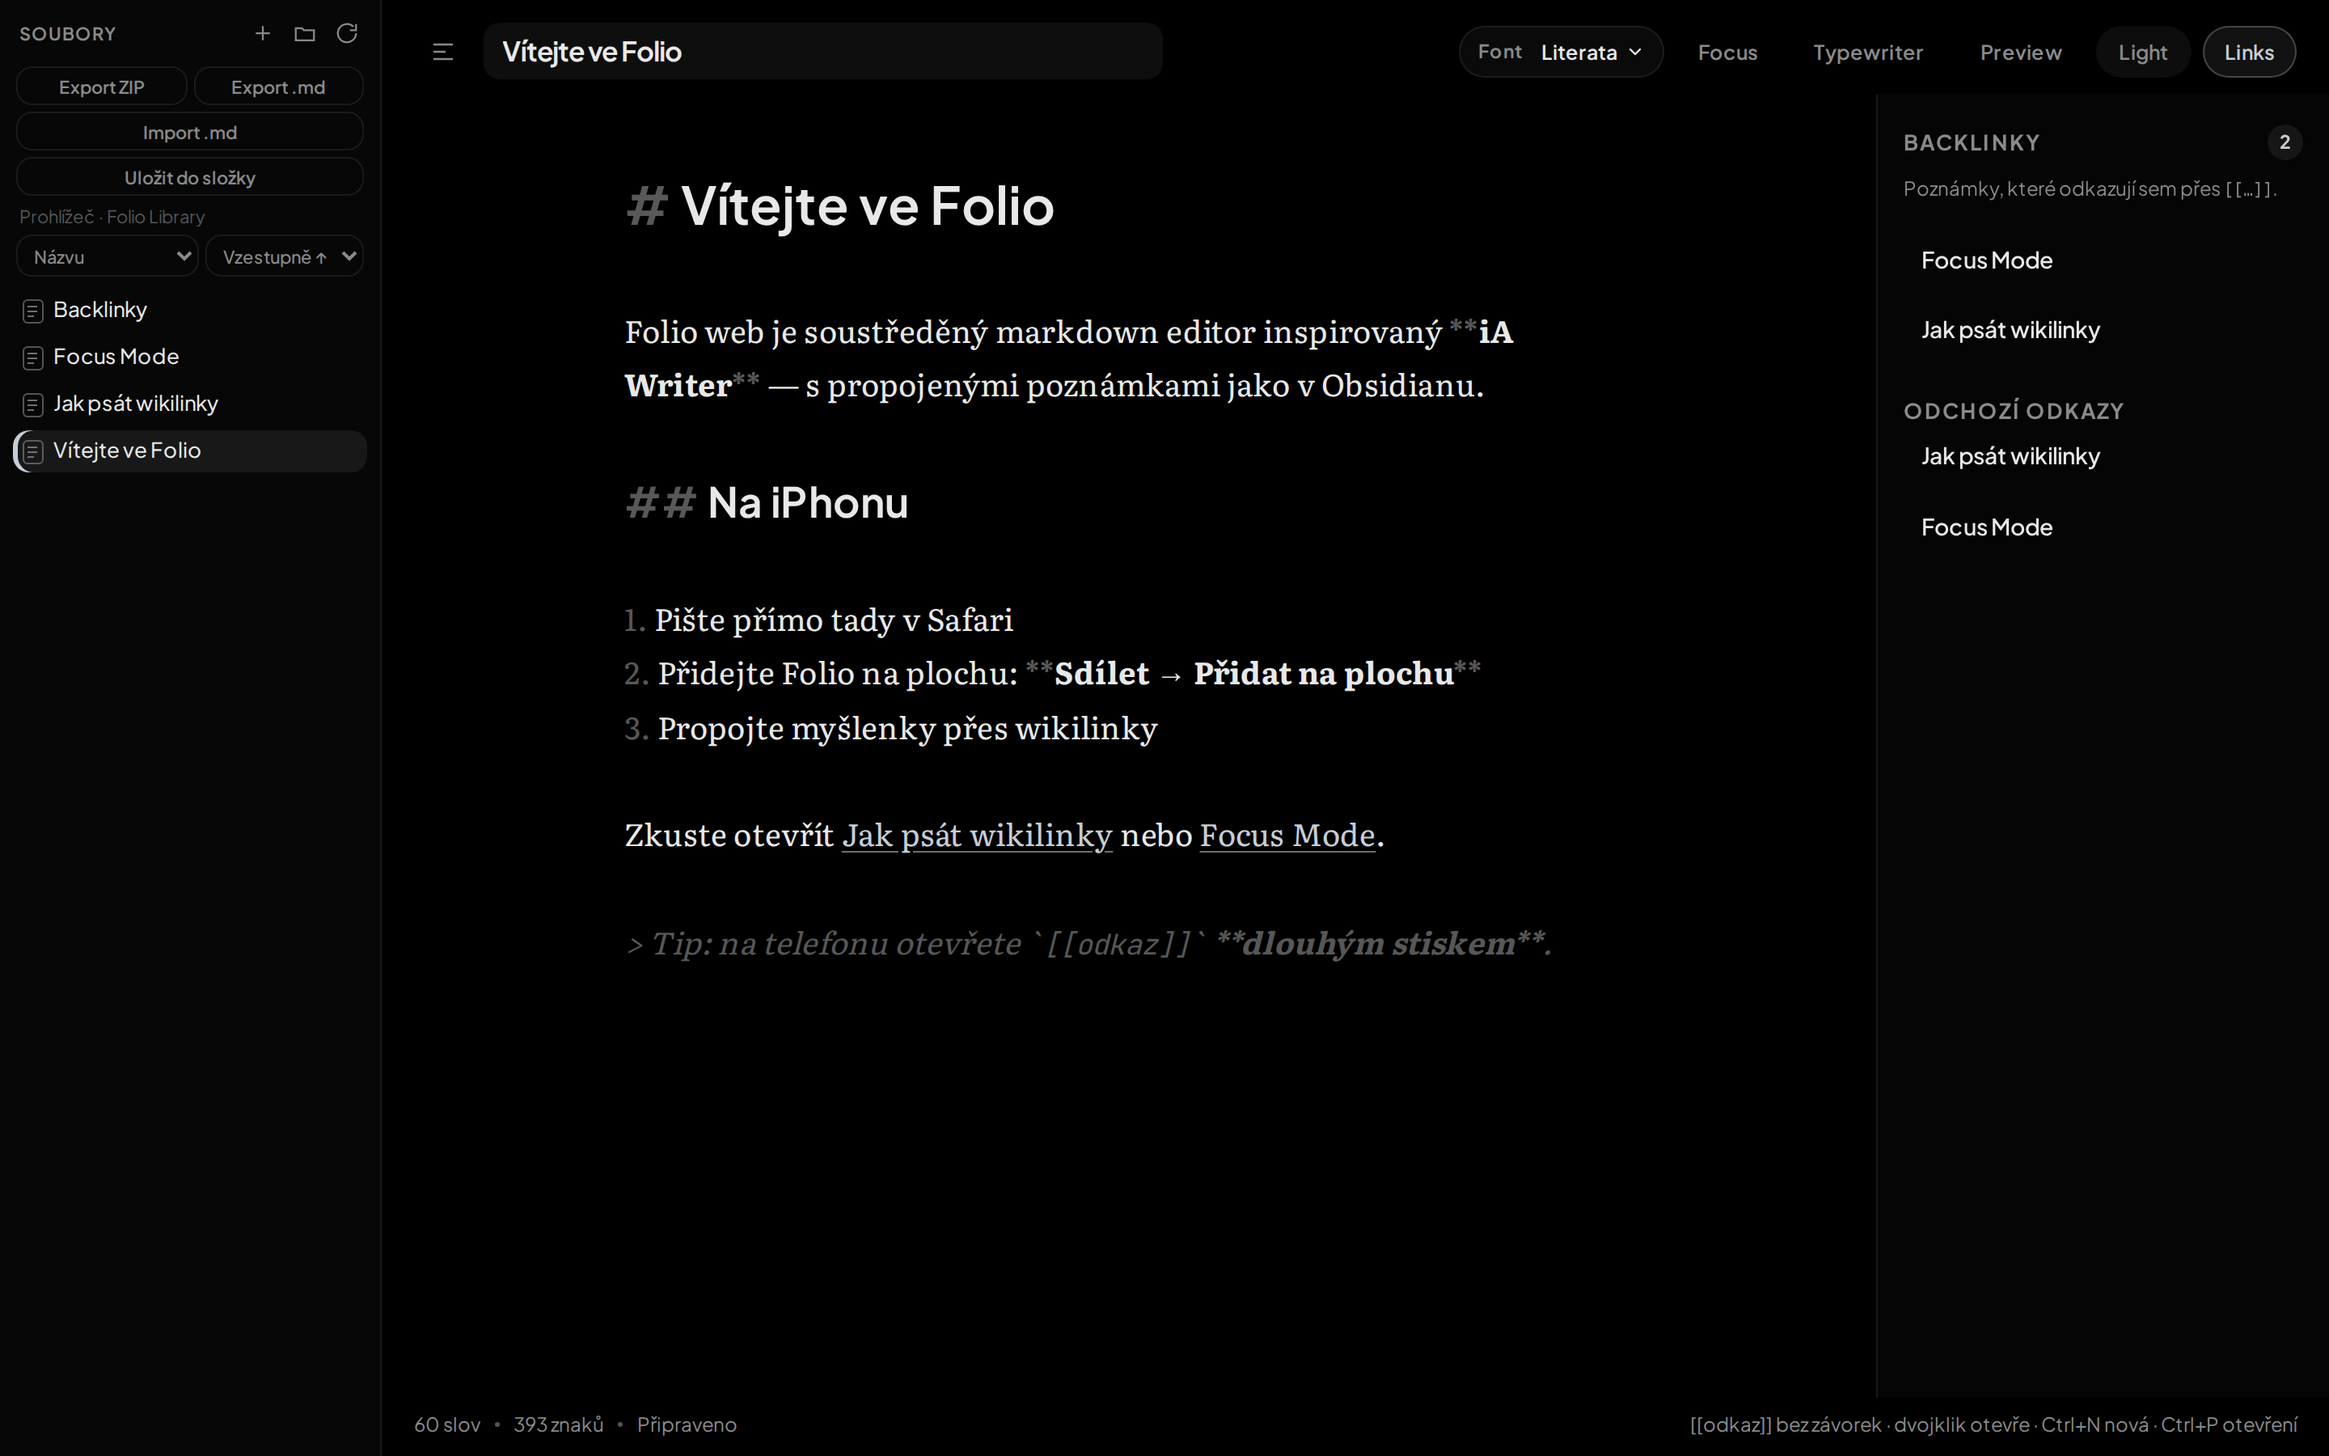
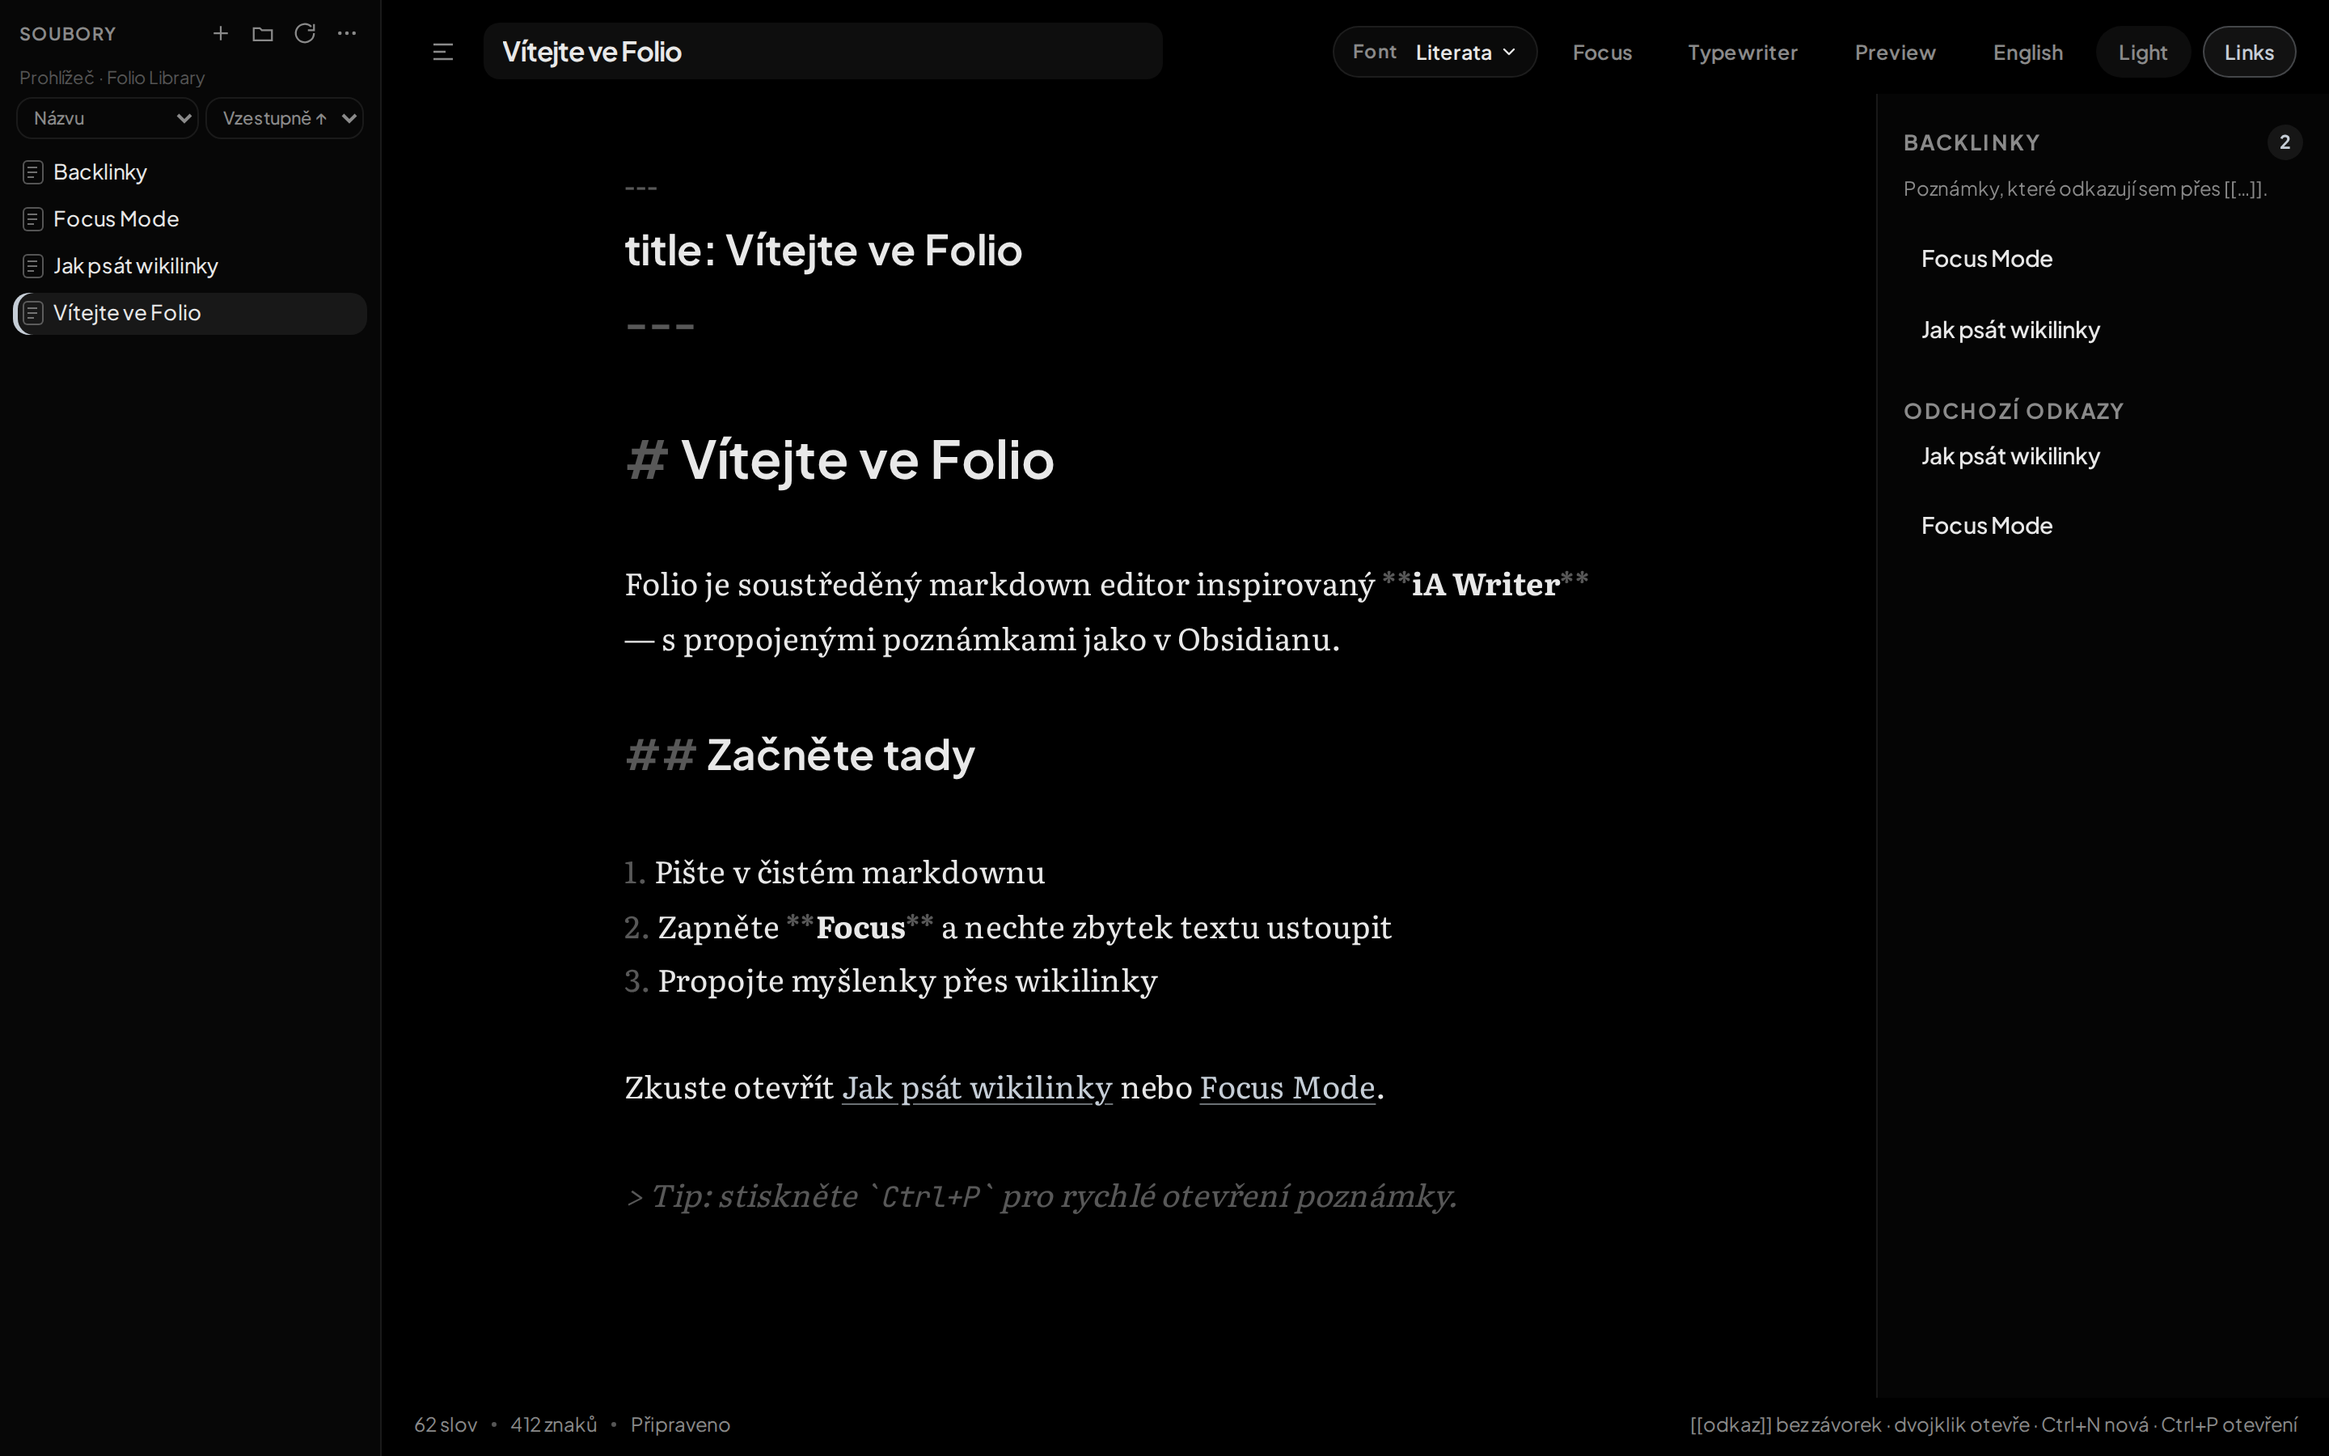
feat(ui): move library disk actions into sidebar overflow menu
Relocate Export ZIP, Export .md, Import .md, and Save to folder from the
files panel into an accessible ⋯ menu in the sidebar header, with keyboard
support and i18n. Add Playwright coverage and refresh README screenshots.

diff --git a/src/app.ts b/src/app.ts
@@ -35,6 +35,7 @@ import {
 } from "./lib/i18n";
 import { loadSettings, saveSettings } from "./lib/settings";
 import { sortNotes } from "./lib/sortNotes";
+import { createSidebarMenu, type SidebarMenuController } from "./lib/sidebarMenu";
 import type { AppSettings, NoteMeta } from "./types";
 
 type FolderNode = {
@@ -71,6 +72,7 @@ export class FolioApp {
   private native = isTauri();
   private webOnly = !isTauri();
   /** Snapshot restored when leaving immersive Focus. */
+  private sidebarMenu: SidebarMenuController | null = null;
   private focusSnapshot: {
     showBacklinks: boolean;
     sidebarCollapsed: boolean;
@@ -182,6 +184,7 @@ export class FolioApp {
     this.renderLinks();
     this.updateStats(this.editor.getText());
     this.syncRemoteImageChips();
+    this.sidebarMenu?.syncItems();
   }
 
   private updateLocaleChip() {
@@ -257,11 +260,12 @@ export class FolioApp {
     if (this.webOnly) {
       document.getElementById("btn-open-library")?.classList.add("mobile-hide");
       document.getElementById("welcome-open")?.classList.add("mobile-hide");
-      document.getElementById("disk-actions")?.classList.remove("hidden");
-      const folderBtn = document.getElementById("btn-save-folder");
-      if (folderBtn && !canUseDirectoryPicker()) {
-        folderBtn.classList.add("is-unsupported");
+      document.getElementById("sidebar-overflow")?.classList.remove("hidden");
+      const folderItem = document.getElementById("menu-save-folder");
+      if (folderItem && !canUseDirectoryPicker()) {
+        folderItem.classList.add("is-unsupported");
       }
+      this.sidebarMenu?.syncItems();
     }
 
     if (!this.mobile) return;
@@ -276,6 +280,7 @@ export class FolioApp {
 
   private setLibraryOpen(open: boolean) {
     this.els.app.classList.toggle("sidebar-collapsed", !open);
+    if (!open) this.sidebarMenu?.close();
     this.syncScrim();
   }
 
@@ -321,9 +326,14 @@ export class FolioApp {
     document.getElementById("welcome-open")!.addEventListener("click", () => void this.runAction(() => this.pickLibrary()));
     document.getElementById("welcome-demo")!.addEventListener("click", () => void this.runAction(() => this.createDemo()));
 
-    document.getElementById("btn-export-library")?.addEventListener("click", () => void this.runAction(() => this.exportLibrary()));
-    document.getElementById("btn-export-note")?.addEventListener("click", () => void this.runAction(() => this.exportCurrentNote()));
-    document.getElementById("btn-import-files")?.addEventListener("click", () => {
+    const menuTrigger = document.getElementById("btn-sidebar-menu") as HTMLButtonElement | null;
+    const menuPanel = document.getElementById("sidebar-menu");
+    if (menuTrigger && menuPanel) {
+      this.sidebarMenu = createSidebarMenu(menuTrigger, menuPanel);
+    }
+    document.getElementById("menu-export-library")?.addEventListener("click", () => void this.runAction(() => this.exportLibrary()));
+    document.getElementById("menu-export-note")?.addEventListener("click", () => void this.runAction(() => this.exportCurrentNote()));
+    document.getElementById("menu-import-md")?.addEventListener("click", () => {
       document.getElementById("import-files")?.dispatchEvent(new MouseEvent("click"));
     });
     document.getElementById("import-files")?.addEventListener("change", (e) => {
@@ -332,7 +342,7 @@ export class FolioApp {
       if (files.length) void this.runAction(() => this.importFiles(files));
       input.value = "";
     });
-    document.getElementById("btn-save-folder")?.addEventListener("click", () => void this.runAction(() => this.saveToFolder()));
+    document.getElementById("menu-save-folder")?.addEventListener("click", () => void this.runAction(() => this.saveToFolder()));
 
     const changeSort = () => {
       this.settings.sortBy = this.els.sortBy.value === "createdAt" ? "createdAt" : "title";

diff --git a/src/lib/sidebarMenu.ts b/src/lib/sidebarMenu.ts
@@ -1,0 +1,129 @@
+/** Accessible sidebar overflow menu (focus trap, arrows, Escape, click-outside). */
+export type SidebarMenuController = {
+  open(): void;
+  close(): void;
+  isOpen(): boolean;
+  syncItems(): void;
+};
+
+export function createSidebarMenu(
+  trigger: HTMLButtonElement,
+  panel: HTMLElement,
+  onClose?: () => void,
+): SidebarMenuController {
+  const items = () =>
+    [...panel.querySelectorAll<HTMLElement>('[role="menuitem"]:not(.hidden):not([hidden])')].filter(
+      (el) => !el.classList.contains("is-unsupported"),
+    );
+
+  let open = false;
+
+  const setExpanded = (value: boolean) => {
+    open = value;
+    trigger.setAttribute("aria-expanded", String(value));
+    panel.classList.toggle("hidden", !value);
+    panel.classList.toggle("open", value);
+  };
+
+  const focusItem = (index: number) => {
+    const list = items();
+    if (!list.length) return;
+    const next = ((index % list.length) + list.length) % list.length;
+    list[next].focus();
+  };
+
+  const close = () => {
+    if (!open) return;
+    setExpanded(false);
+    onClose?.();
+  };
+
+  const openMenu = () => {
+    if (open) return;
+    setExpanded(true);
+    const list = items();
+    if (list.length) list[0].focus();
+  };
+
+  const onDocPointer = (event: MouseEvent) => {
+    if (!open) return;
+    const target = event.target;
+    if (!(target instanceof Node)) return;
+    if (panel.contains(target) || trigger.contains(target)) return;
+    close();
+  };
+
+  const onDocKey = (event: KeyboardEvent) => {
+    if (!open) return;
+    if (event.key === "Escape") {
+      event.preventDefault();
+      close();
+      trigger.focus();
+    }
+  };
+
+  const onPanelKey = (event: KeyboardEvent) => {
+    if (!open) return;
+    const list = items();
+    if (!list.length) return;
+    const index = list.indexOf(document.activeElement as HTMLElement);
+    if (event.key === "ArrowDown") {
+      event.preventDefault();
+      focusItem(index < 0 ? 0 : index + 1);
+    } else if (event.key === "ArrowUp") {
+      event.preventDefault();
+      focusItem(index < 0 ? list.length - 1 : index - 1);
+    } else if (event.key === "Home") {
+      event.preventDefault();
+      focusItem(0);
+    } else if (event.key === "End") {
+      event.preventDefault();
+      focusItem(list.length - 1);
+    } else if (event.key === "Tab") {
+      event.preventDefault();
+      focusItem(index < 0 ? 0 : index + (event.shiftKey ? -1 : 1));
+    } else if (event.key === "Enter" || event.key === " ") {
+      const active = document.activeElement as HTMLElement | null;
+      if (active?.getAttribute("role") === "menuitem") {
+        event.preventDefault();
+        active.click();
+        close();
+        trigger.focus();
+      }
+    }
+  };
+
+  const onTriggerKey = (event: KeyboardEvent) => {
+    if (event.key === "ArrowDown" || event.key === "Enter" || event.key === " ") {
+      event.preventDefault();
+      openMenu();
+    } else if (event.key === "Escape") {
+      close();
+    }
+  };
+
+  trigger.addEventListener("click", () => {
+    if (open) close();
+    else openMenu();
+  });
+  trigger.addEventListener("keydown", onTriggerKey);
+  panel.addEventListener("keydown", onPanelKey);
+  document.addEventListener("mousedown", onDocPointer);
+  document.addEventListener("keydown", onDocKey);
+
+  panel.querySelectorAll('[role="menuitem"]').forEach((item) => {
+    item.addEventListener("click", () => {
+      close();
+      trigger.focus();
+    });
+  });
+
+  return {
+    open: openMenu,
+    close,
+    isOpen: () => open,
+    syncItems: () => {
+      if (open && !items().length) close();
+    },
+  };
+}

diff --git a/index.html b/index.html
@@ -41,19 +41,35 @@
             <button class="icon-btn" id="btn-refresh" data-i18n-title="action.refreshLibrary" data-i18n-aria-label="action.refreshLibrary" title="Obnovit" aria-label="Obnovit knihovnu">
               <svg viewBox="0 0 24 24" width="15" height="15" fill="none" stroke="currentColor" stroke-width="1.8"><path d="M21 12a9 9 0 1 1-2.64-6.36"/><path d="M21 3v6h-6"/></svg>
             </button>
+            <div class="sidebar-overflow web-only hidden" id="sidebar-overflow">
+              <button
+                type="button"
+                class="icon-btn"
+                id="btn-sidebar-menu"
+                aria-haspopup="menu"
+                aria-expanded="false"
+                aria-controls="sidebar-menu"
+                data-i18n-title="action.libraryOverflowTitle"
+                data-i18n-aria-label="action.libraryOverflow"
+                title="Export, import a uložení"
+                aria-label="Další akce knihovny"
+              >
+                <svg viewBox="0 0 24 24" width="15" height="15" fill="currentColor" aria-hidden="true"><circle cx="5" cy="12" r="1.8"/><circle cx="12" cy="12" r="1.8"/><circle cx="19" cy="12" r="1.8"/></svg>
+              </button>
+              <div class="sidebar-menu hidden" id="sidebar-menu" role="menu" data-i18n-aria-label="action.libraryOverflow" aria-label="Další akce knihovny">
+                <button type="button" role="menuitem" class="sidebar-menu-item" id="menu-export-library" data-i18n="disk.exportZip">Export ZIP</button>
+                <button type="button" role="menuitem" class="sidebar-menu-item" id="menu-export-note" data-i18n="disk.exportNote">Export .md</button>
+                <button type="button" role="menuitem" class="sidebar-menu-item" id="menu-import-md" data-i18n="disk.importMd">Import .md</button>
+                <button type="button" role="menuitem" class="sidebar-menu-item desktop-chromium" id="menu-save-folder" data-i18n="disk.saveFolder">Uložit do složky</button>
+              </div>
+            </div>
           </div>
           <button class="icon-btn mobile-only" id="btn-close-sidebar" data-i18n-title="action.closeLibrary" data-i18n-aria-label="action.closeLibrary" title="Zavřít" aria-label="Zavřít knihovnu">
             <svg viewBox="0 0 24 24" width="15" height="15" fill="none" stroke="currentColor" stroke-width="1.8"><path d="M6 6l12 12M18 6L6 18"/></svg>
           </button>
         </div>
 
-        <div class="disk-actions web-only hidden" id="disk-actions">
-          <button class="disk-btn" id="btn-export-library" type="button">Export ZIP</button>
-          <button class="disk-btn" id="btn-export-note" type="button">Export .md</button>
-          <button class="disk-btn" id="btn-import-files" type="button">Import .md</button>
-          <button class="disk-btn desktop-chromium" id="btn-save-folder" type="button" data-i18n="disk.saveFolder">Uložit do složky</button>
-          <input id="import-files" class="hidden" type="file" accept=".md,text/markdown,text/plain" multiple />
-        </div>
+        <input id="import-files" class="hidden" type="file" accept=".md,text/markdown" multiple aria-hidden="true" tabindex="-1" />
 
         <div class="library-path" id="library-path" title="" data-i18n="library.none">Žádná knihovna</div>
         <div class="library-sort" role="group" data-i18n-aria-label="sort.group" aria-label="Řazení souborů">

diff --git a/src/styles.css b/src/styles.css
@@ -251,43 +251,58 @@ input {
   transform: translateY(-1px);
 }
 
-.disk-actions {
-  display: grid;
-  grid-template-columns: 1fr 1fr;
-  gap: 0.25rem;
-  padding: 0 0.35rem;
+.sidebar-overflow {
+  position: relative;
 }
 
-.disk-actions #btn-import-files {
-  grid-column: 1 / -1;
-}
-
-.disk-actions.hidden {
+.sidebar-overflow.hidden {
   display: none !important;
 }
 
-.disk-btn {
+.sidebar-menu {
+  position: absolute;
+  top: calc(100% + 6px);
+  right: 0;
+  z-index: 40;
+  min-width: 11.5rem;
+  padding: 0.35rem;
+  border-radius: var(--radius-md);
   border: 1px solid var(--border);
+  background: var(--panel);
+  box-shadow: 0 12px 40px rgba(16, 14, 10, 0.14);
+}
+
+.app[data-theme="dark"] .sidebar-menu {
+  box-shadow: 0 16px 44px rgba(0, 0, 0, 0.45);
+}
+
+.sidebar-menu.hidden {
+  display: none !important;
+}
+
+.sidebar-menu-item {
+  display: block;
+  width: 100%;
+  border: 0;
   background: transparent;
-  color: var(--muted);
+  color: var(--ink);
+  text-align: left;
+  padding: 0.55rem 0.65rem;
   border-radius: var(--radius-sm);
-  padding: 0.28rem 0.35rem;
-  font-size: 0.68rem;
+  font-size: 0.82rem;
   font-weight: 600;
   cursor: pointer;
 }
 
-.disk-btn:hover {
+.sidebar-menu-item:hover,
+.sidebar-menu-item:focus-visible {
   background: var(--accent-soft);
   color: var(--accent);
-}
-
-.disk-btn.desktop-chromium {
-  grid-column: 1 / -1;
+  outline: none;
 }
 
 .app:not(.is-web) .web-only,
-.app.is-web .disk-btn.desktop-chromium.is-unsupported {
+.app.is-web #menu-save-folder.is-unsupported {
   display: none !important;
 }
 

diff --git a/src/lib/i18n.ts b/src/lib/i18n.ts
@@ -11,6 +11,11 @@ const cs = {
   "action.closeLibrary": "Zavřít knihovnu",
   "action.closeBacklinks": "Zavřít backlinky",
   "disk.saveFolder": "Uložit do složky",
+  "disk.exportZip": "Export ZIP",
+  "disk.exportNote": "Export .md",
+  "disk.importMd": "Import .md",
+  "action.libraryOverflow": "Další akce knihovny",
+  "action.libraryOverflowTitle": "Export, import a uložení",
   "library.none": "Žádná knihovna",
   "library.browserLabel": "Prohlížeč · Folio Library",
   "sort.group": "Řazení souborů",
@@ -107,6 +112,11 @@ const en: Record<MessageKey, string> = {
   "action.closeLibrary": "Close library",
   "action.closeBacklinks": "Close links panel",
   "disk.saveFolder": "Save to folder",
+  "disk.exportZip": "Export ZIP",
+  "disk.exportNote": "Export .md",
+  "disk.importMd": "Import .md",
+  "action.libraryOverflow": "Library more actions",
+  "action.libraryOverflowTitle": "Export, import, and save",
   "library.none": "No library",
   "library.browserLabel": "Browser · Folio Library",
   "sort.group": "Sort files",
